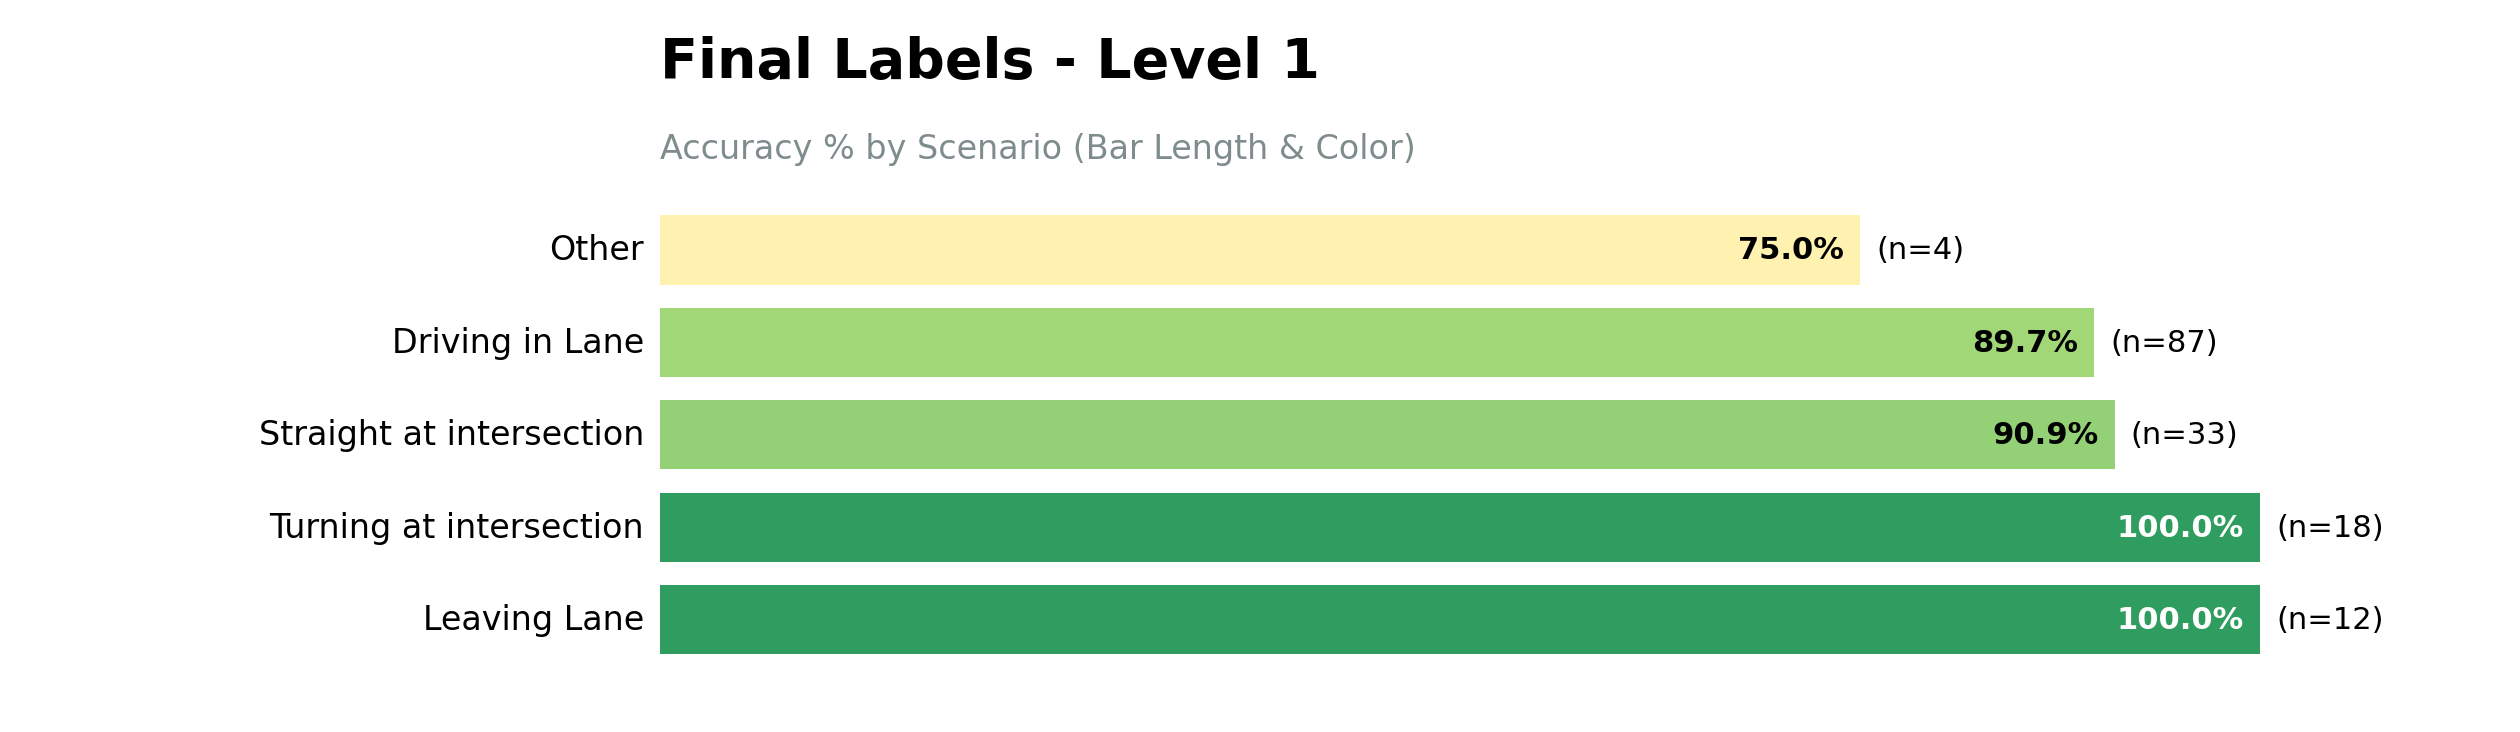
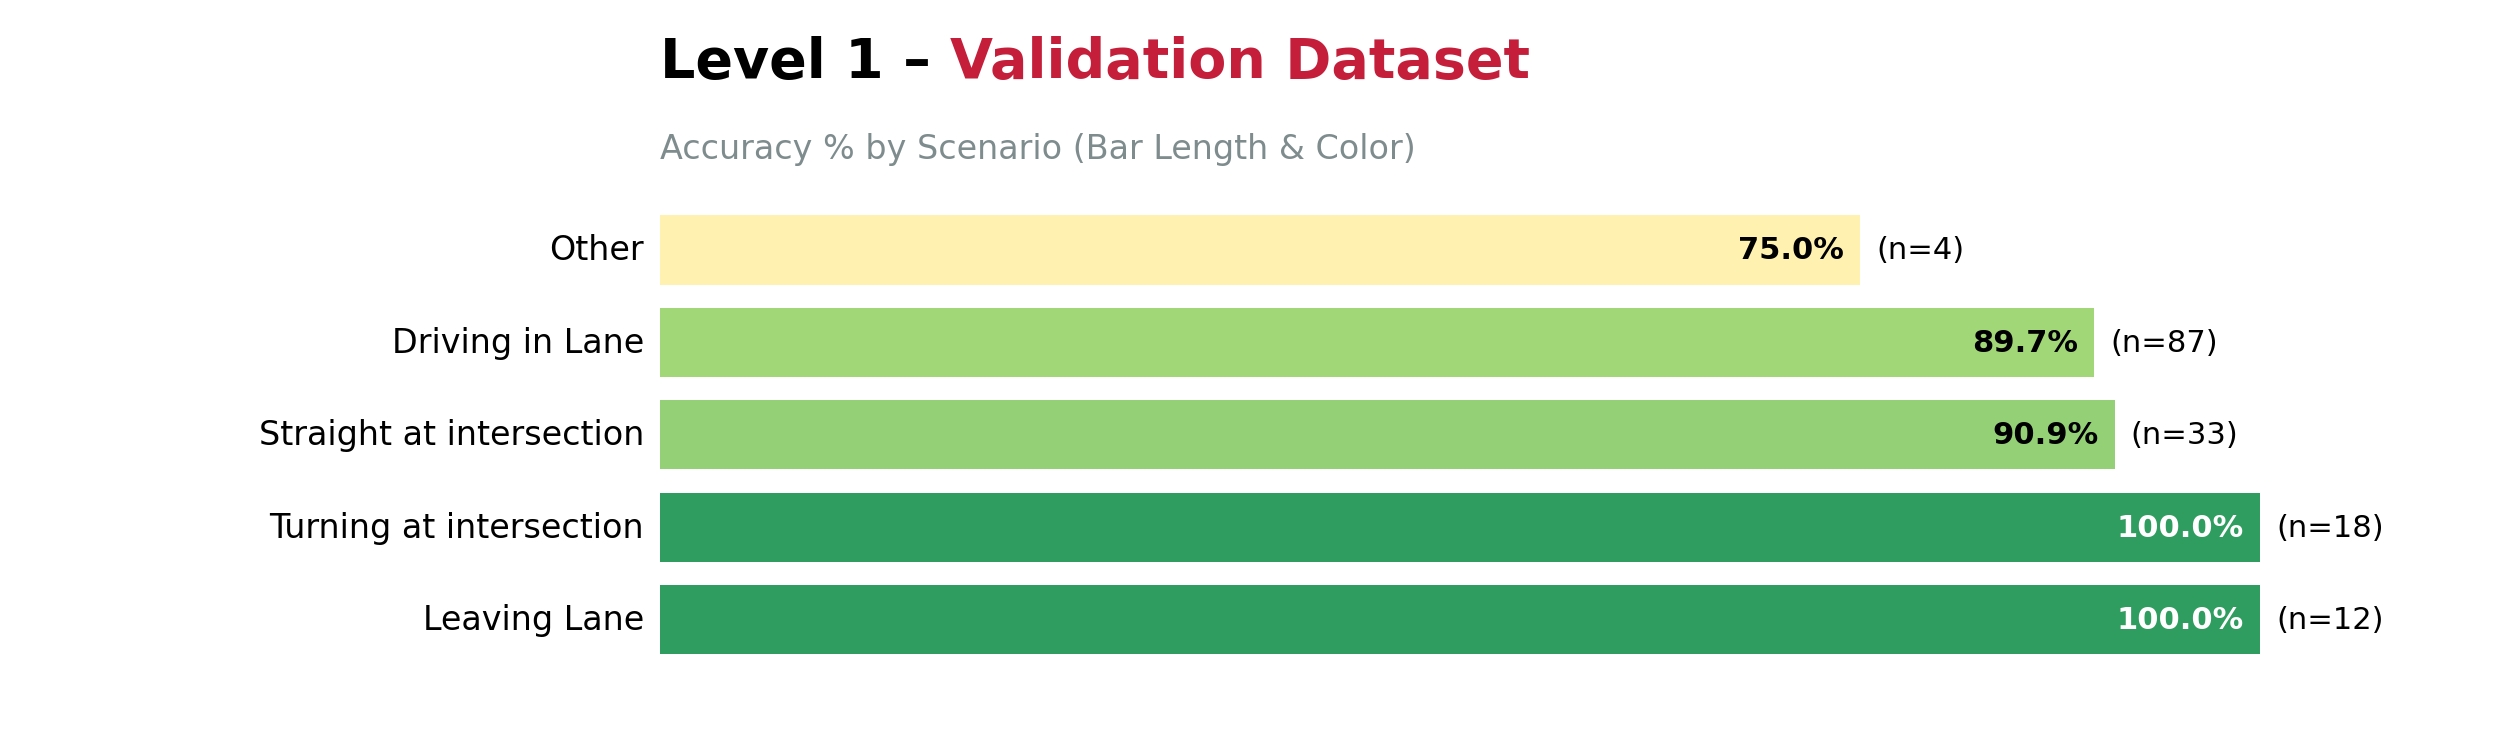
optimized model accurace per scenario vis

Changed region(s): [[0.2476, 0.0301, 0.619, 0.1202]]

diff --git a/accuracy_per_scenario_ALL/accuracy_by_scenario.py b/accuracy_per_scenario_ALL/accuracy_by_scenario.py
@@ -227,8 +227,31 @@ def plot_scenario_accuracy(accuracy_csv_path, output_plot_path, title):
     ax.invert_yaxis()
     ax.axis('off')
     
-    # Add Title
-    ax.text(0, -1.5, title, fontsize=20, fontweight='bold', color='black')
+    # Add Title with two parts: "Level X – " in black, subtitle in red
+    # Parse title to extract level info
+    if 'Level 1' in title:
+        level_text = 'Level 1 – '
+    elif 'Level 2' in title:
+        level_text = 'Level 2 – '
+    else:
+        level_text = title + ' – '
+    
+    subtitle = 'Validation and Train Dataset'
+    
+    # Use transform to position text properly
+    from matplotlib.transforms import offset_copy
+    
+    # Draw level text in black, get its extent
+    txt1 = ax.text(0, -1.5, level_text, fontsize=20, fontweight='bold', color='black',
+                   transform=ax.transData)
+    
+    # Force a draw to get the text extent
+    fig.canvas.draw()
+    bbox = txt1.get_window_extent(renderer=fig.canvas.get_renderer())
+    bbox_data = bbox.transformed(ax.transData.inverted())
+    
+    # Draw subtitle right after level text
+    ax.text(bbox_data.x1, -1.5, subtitle, fontsize=20, fontweight='bold', color='#C41E3A')
     ax.text(0, -0.8, "Accuracy % by Scenario (Bar Length & Color)", fontsize=12, color='#7f8c8d')
 
     plt.savefig(output_plot_path, dpi=200, bbox_inches='tight', facecolor='white')

diff --git a/accuracy_per_scenario_VAL/accuracy_by_scenario.py b/accuracy_per_scenario_VAL/accuracy_by_scenario.py
@@ -225,8 +225,31 @@ def plot_scenario_accuracy(accuracy_csv_path, output_plot_path, title):
     ax.invert_yaxis()
     ax.axis('off')
     
-    # Add Title
-    ax.text(0, -1.5, title, fontsize=20, fontweight='bold', color='black')
+    # Add Title with two parts: "Level X – " in black, subtitle in red
+    # Parse title to extract level info
+    if 'Level 1' in title:
+        level_text = 'Level 1 – '
+    elif 'Level 2' in title:
+        level_text = 'Level 2 – '
+    else:
+        level_text = title + ' – '
+    
+    subtitle = 'Validation Dataset'
+    
+    # Use transform to position text properly
+    from matplotlib.transforms import offset_copy
+    
+    # Draw level text in black, get its extent
+    txt1 = ax.text(0, -1.5, level_text, fontsize=20, fontweight='bold', color='black',
+                   transform=ax.transData)
+    
+    # Force a draw to get the text extent
+    fig.canvas.draw()
+    bbox = txt1.get_window_extent(renderer=fig.canvas.get_renderer())
+    bbox_data = bbox.transformed(ax.transData.inverted())
+    
+    # Draw subtitle right after level text
+    ax.text(bbox_data.x1, -1.5, subtitle, fontsize=20, fontweight='bold', color='#C41E3A')
     ax.text(0, -0.8, "Accuracy % by Scenario (Bar Length & Color)", fontsize=12, color='#7f8c8d')
 
     plt.savefig(output_plot_path, dpi=200, bbox_inches='tight', facecolor='white')
